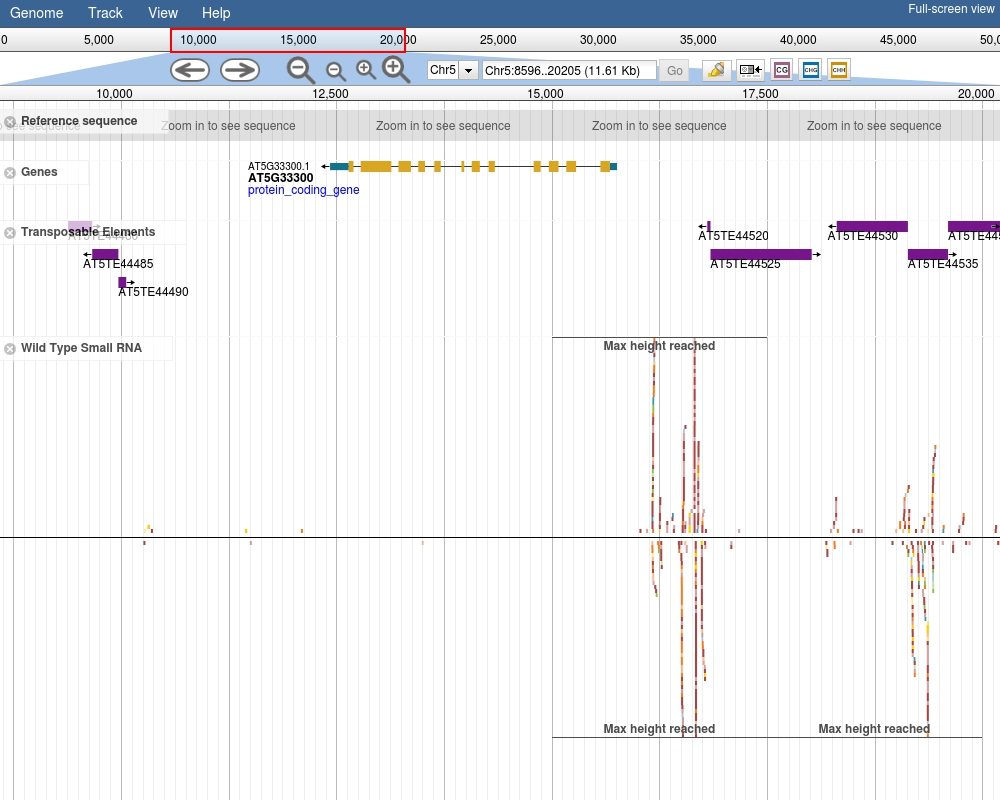
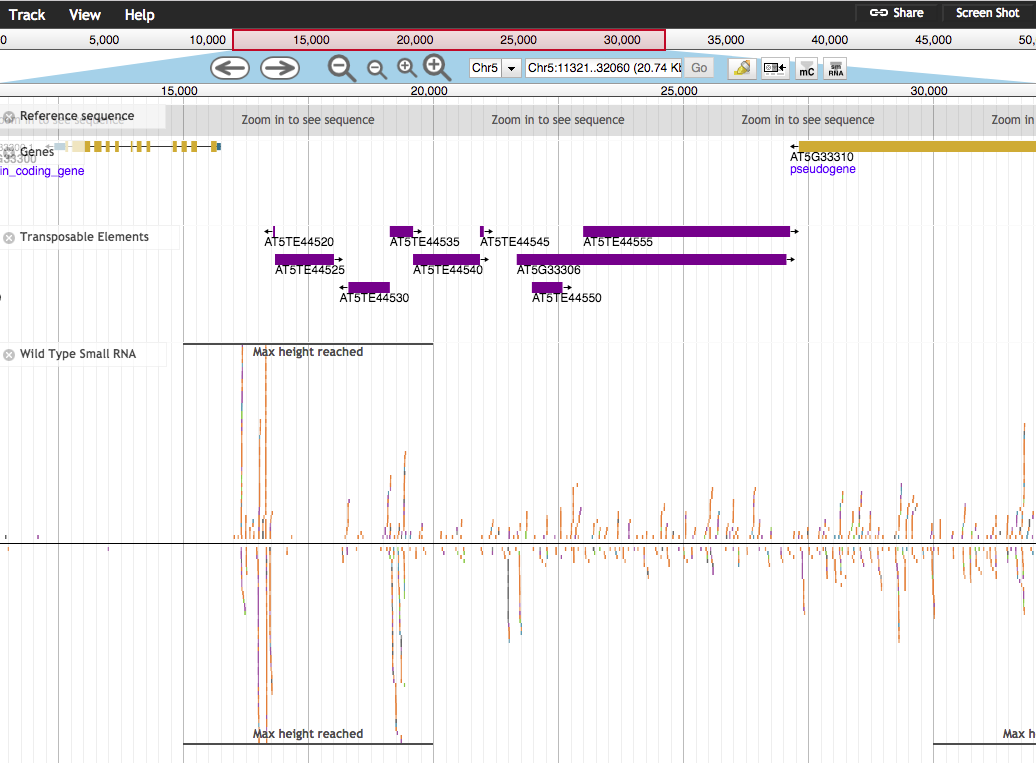
updated demo image and readme

diff --git a/README.md b/README.md
@@ -40,6 +40,24 @@ Sample data is included in the plugin to test that the plugin is working properl
 
 ![Demo Image](img/demo_image.png)
 
+## The Basics
+- Each read is colored based on length
+  - Blue: 21 nt
+  - Green: 22 nt
+  - Purple: 23 nt
+  - Orange: 24 nt
+  - Red: piRNAs (26-31 nt)
+  - Gray: all other sizes
+  - *Colors were inspired by [this color scheme](https://mpss.danforthcenter.org/web/php/pages/legend.php?SITE=AT_sRNA)*
+- Reads are positions positions based on strand
+  - Above y-axis origin: positive strand
+  - Below y-axis origin: negative strand
+- Unfilled reads indicate read maps to multiple locations
+- Filtering options
+  - Filter an individual track using the track drop-down menu
+  - Filter all visible smRNA tracks using the toolbar button
+  - Filter for size, strand, read quality, multimapping
+
 ## Plants vs Animals
 The plant-specific smRNA color scheme is the default. However, if you want to use the animal-specific color scheme, it is very easy and flexible to change.  This is compatible with the [DNA Methylation plugin](https://github.com/bhofmei/jbplugin-methylation).
   
